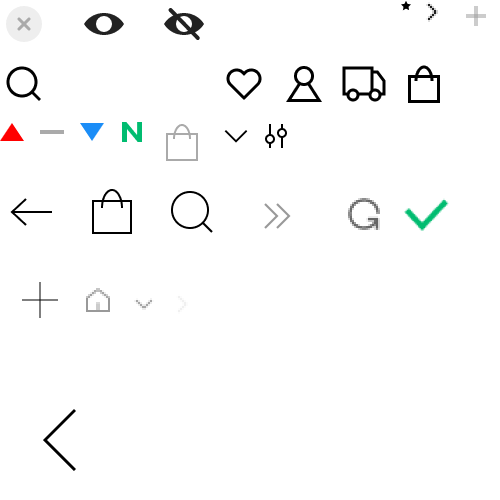
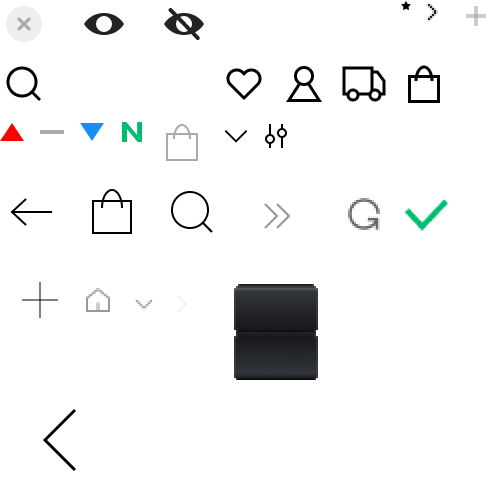
pc mobile 특가 페이지 작업중

Changed region(s): [[0.45, 0.57, 0.66, 0.78]]

diff --git a/pages/publish/IN_MO_HOM_01_04.vue b/pages/publish/IN_MO_HOM_01_04.vue
@@ -271,10 +271,10 @@ const modal = {
             .num {
               width:42px;
               height:48px;
-              background-image:url('/_nuxt/assets/mo_images/common/bg_count.png');
+              background-image:url('~/assets/images/common/icon_split.png');
               background-repeat:no-repeat;
-              background-position:50% 50%;
-              background-size:100% 100%;
+              background-position:-117px -142px;
+              background-size:250px auto;
               display:inline-flex;
               align-items:center;
               justify-content:center;

diff --git a/pages/publish/IN_PC_HOM_01_04.vue b/pages/publish/IN_PC_HOM_01_04.vue
@@ -275,9 +275,10 @@ const modal = {
               .num {
                 width:42px;
                 height:48px;
-                background-image:url('/_nuxt/assets/images/ui/bg_count.png');
+                background-image:url('~/assets/images/common/icon_split.png');
                 background-repeat:no-repeat;
-                background-position:50% 50%;
+                background-position:-117px -142px;
+                background-size:250px auto;
                 display:flex;
                 align-items:center;
                 justify-content:center;
